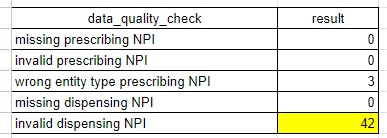
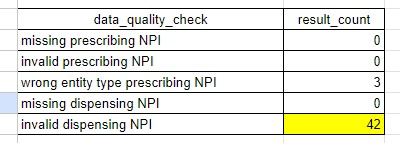
update docs to match sql queries

Changed region(s): [[0.0, 0.029, 1.0, 0.9855]]

diff --git a/docs/data-quality/atomic-level.md b/docs/data-quality/atomic-level.md
@@ -15,7 +15,14 @@ Mapping problems are data quality problems that are inadvertently introduced whe
 
 Inherent problems are data quality problems that are artifacts of the raw data that were not introduced during mapping and cannot be corrected by mapping.  They can only be corrected by acquiring better data from the source.
 
-For each claims data table in the Tuva Input Layer, we analyze several domains of data quality problems.  We have organized these domains in order of importance below.
+For each claims data table in the Tuva Input Layer, we analyze several domains of data quality problems.  We have organized these domains in order of importance below. To view a union of all the individual checks (ignoring date trend and other checks that are more complex) query the table below:
+
+```sql
+select *
+from data_quality.data_quality_test_summary
+order by result_count desc
+```
+
 
 ## Medical Claim
 
@@ -107,13 +114,13 @@ Beyond these basic date checks, we need to check whether the values within our d
 
 ```sql
 select *
-from data_quality.medical_claim_date_trends
+from data_quality.claim_date_trends
 order by 1
 ```
 
-![Medical Claim Date Trends](/img/data_quality_medical_claim_date_trends.jpg)
+![Claim Date Trends](/img/data_quality_claim_date_trends.jpg)
 
-In the example table above we see that the first 3 months of 2021 have claim start and end dates populated, but no admission, discharge, or paid dates.  This indicates we are missing date information on these fields during these months.
+In the example table above we see that the first 3 months of 2021 have claim start and end dates populated, but no admission, discharge, or paid dates.  This indicates we are missing date information on these fields during these months. 
 
 ### Diagnosis and Procedure Fields
 
@@ -159,7 +166,8 @@ The following code returns the results of these checks:
 
 ```sql
 select *
-from data_quality.inst_header_fields
+from data_quality.medical_claim_inst_header_fields
+order by result_count desc
 ```
 
 ![Inst Header Fields](/img/data_quality_inst_header_fields.jpg)
@@ -178,7 +186,8 @@ We need to check these fields to see if the values of these fields are missing o
 
 ```sql
 select *
-from data_quality.claim_line_fields
+from data_quality.medical_claim_claim_line_fields
+order by result_count desc
 ```
 
 ![Medical Claim Line Checks](/img/data_quality_medical_claim_line_checks.jpg)
@@ -196,7 +205,8 @@ Often we wish to do analysis about the specific providers or facilities deliveri
 
 ```sql
 select *
-from data_quality.medical_claim_npi
+from data_quality.medical_claim_provider_npi
+order by result_count desc
 ```
 
 ![Provider NPI](/img/data_quality_provider_npi.jpg)
@@ -207,7 +217,8 @@ Often we see anomalies where claim volume or dollars can change unexpectedly ove
 
 ```sql
 select *
-from data_quality.trended_medical_claim_volume_and_dollars
+from data_quality.medical_claim_volume_and_dollars
+order by year_month 
 ```
 
 ![Medical Claim Volume and Dollars](/img/data_quality_medical_claim_volume_and_dollars.jpg)
@@ -222,7 +233,7 @@ The table identified in the query below will only populate once you've created t
 
 ```sql
 select *
-from data_quality.claims_data_loss
+from data_quality.data_loss
 ```
 
 ![Data Loss](/img/data_quality_data_loss.jpg)
@@ -240,7 +251,7 @@ The primary key on the `pharmacy_claim` table is comprised of 3 fields: `claim_i
 
 ```sql
 select *
-from data_quality.primary_key_check
+from data_quality.primary_keys
 ```
 
 ### Patient ID
@@ -260,7 +271,7 @@ from data_quality.pharmacy_claim_patient_id
 
 This query returns a table with one row per check and the count of unique claim IDs that have that particular data quality issue
 
-![Medical Claim Patient ID](/img/data_quality_medical_claim_patient_id.jpg)
+![Medical Claim Patient ID](/img/data_quality_pharmacy_claim_patient_id.jpg)
 
 In the example table above we observe the following:
 
@@ -298,11 +309,11 @@ Beyond these basic date checks, we need to check whether the values within our d
 
 ```sql
 select *
-from data_quality.pharmacy_claim_date_trends
+from data_quality.claim_date_trends
 order by 1
 ```
 
-![Pharmacy Claim Date Trends](/img/data_quality_pharmacy_claim_date_trends.jpg)
+![Pharmacy Claim Date Trends](/img/data_quality_claim_date_trends.jpg)
 
 In the example table above we see that the first 3 months of 2021 have some small amount of claims with paid_dates. It is worth further investigation to see if we are missing dates for those claims, or if that is just ramp up in the pharmacy claims data we have received.
 
@@ -365,12 +376,12 @@ Often we see anomalies where claim volume or dollars can change unexpectedly ove
 
 ```sql
 select *
-from data_quality.trended_pharmacy_claim_volume_and_dollars
+from data_quality.pharmacy_claim_volume_and_dollars
 ```
 
-![Medical Claim Volume and Dollars](/img/data_quality_medical_claim_volume_and_dollars.jpg)
+![Pharmacy Claim Volume and Dollars](/img/data_quality_pharmacy_claim_volume_and_dollars.jpg)
 
-In the example above we clearly have medical claims in the month of March 2021 but we have no paid amounts.
+In the example above we clearly have pharmacy claims in the month of March 2021 but we have no paid amounts.
 
 ### Data Loss
 
@@ -380,7 +391,7 @@ The table identified in the query below will only populate once you've created t
 
 ```sql
 select *
-from data_quality.claims_data_loss
+from data_quality.data_loss
 ```
 
 ![Data Loss](/img/data_quality_data_loss.jpg)
@@ -447,6 +458,8 @@ select *
 from data_quality.eligibility_date_checks
 ```
 
+![Eligibility Date Checks](/img/data_quality_eligibility_date_checks.jpg)
+
 ### Patient Demographics
 Birth date and gender information about a member is crucial for some downstream analytics.  The `eligibility_demographics`
 table provides a count of eligibility spans that are missing this data.
@@ -474,6 +487,7 @@ Trending this count can surface abnormal drops and/or spikes in enrollment.
 ```sql
 select *
 from data_quality.eligibility_trend
+order by year_month 
 ```
 
 ![Eligibility Trend](/img/data_quality_eligibility_trend.png)
@@ -490,7 +504,7 @@ data_loss table in the claims Input Layer.
 
 ```sql
 select *
-from data_quality.claims_data_loss
+from data_quality.data_loss
 ```
 
 ![Data Loss](/img/data_quality_data_loss.jpg)
